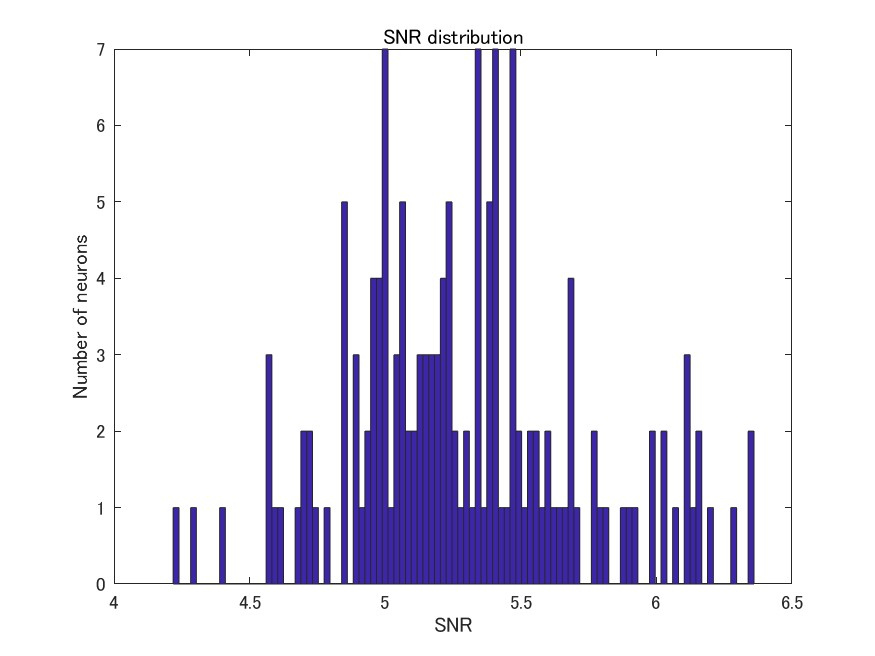
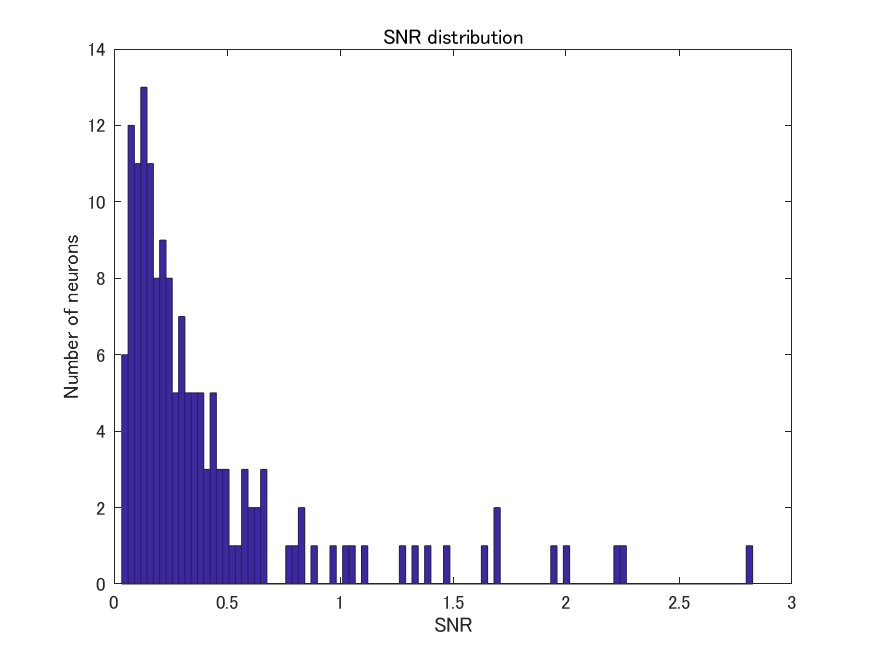
20230321

Changed region(s): [[0.0617, 0.061, 0.864, 0.9451], [0.8949, 0.9146, 0.9257, 0.9451], [0.0926, 0.061, 0.1234, 0.0915]]

diff --git a/src/MAPregression.m b/src/MAPregression.m
@@ -51,12 +51,12 @@ for i = 1:k
     % get root mean squared error and r2 value
     if type == "normal"
         SEs = (Ytest-tuningCurves(test)).^2;
-        RMSE(i) = sqrt(mean(SEs));
+        RMSE(i) = mean(SEs);
         r2(i) = 1 - (sum((Ytest - tuningCurves(test)).^2) / sum((Ytest - mean(Ytest)).^2));
         AIC(i) = nan;
     else
         SEs = (Ytest - Xtest * w).^2;
-        RMSE(i) = sqrt(mean(SEs));
+        RMSE(i) = mean(SEs);
         r2(i) = 1 - (sum((Ytest - Xtest * w).^2) / sum((Ytest - mean(Ytest)).^2));
         % get AIC
         AIC(i) = ntrials * log(RMSE(i)) + 2 * length(w);

diff --git a/src/compareRegression.m b/src/compareRegression.m
@@ -9,8 +9,8 @@
 % Question 1 what previous paper did? to prove the model is appropriate.
 % AIC / BIC is useful for evaluating? check byron's paper.
 
-status = 0;
-outputFolder = "../results/20230319/fake-";
+status = 1;
+outputFolder = "../results/20230320/";
 
 %% prepare the dataset
 % input: filename string
